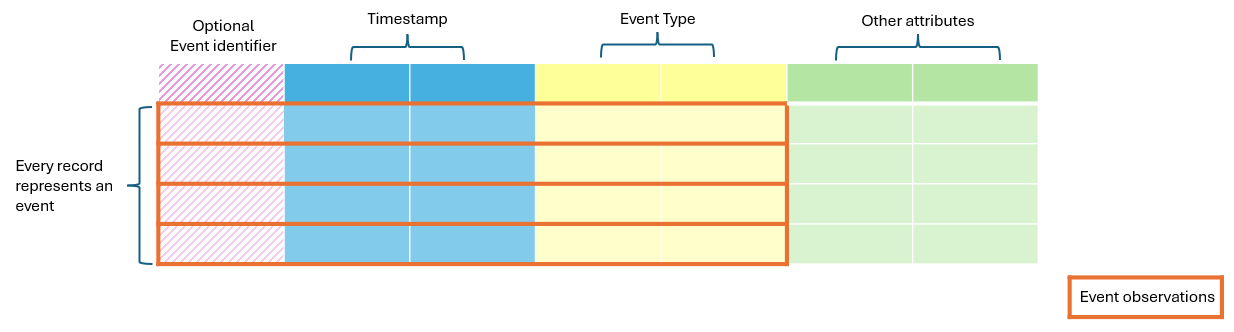
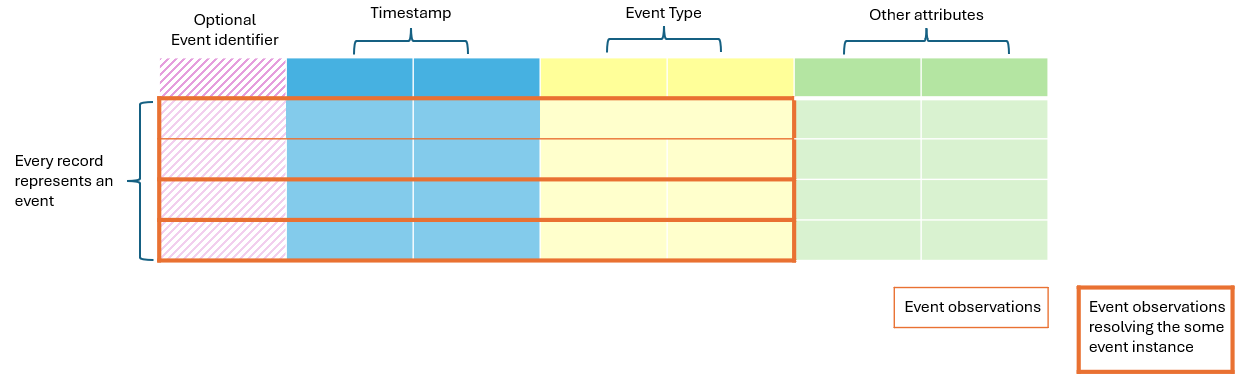
Add page summaries + Journal entry

diff --git a/content/Concepts/Event Observations.md b/content/Concepts/Event Observations.md
@@ -1,0 +1,67 @@
+## Definition 
+
+> An event observation represents a recording of an event (instance) in a particular source. Multiple event observations may refer to the same event instance. 
+## Common sources
+
+Raw records can be interpreted/extracted/discretized into event observations. Below I've added some common sources that contain event observations.
+### Event Logs
+Every record represents an event observation and contains information from which the event type and timestamp can be determined. A record may contain additional attributes that do not necessarily describe the event itself.
+
+
+![[Event Log (Data).png]]
+**Extract**
+- Select the relevant records from the source
+- Identify which columns provide event information
+
+**Interpret**
+- Interpret e.g. `activity` as the event type
+- Interpret e.g. `timestamp` as the event timestamp
+
+**Resolve**
+-  Determine which event observations refer to the same underlying event instance.
+
+### Object data (todo better name)
+Every record represents an object observation. Object observations may contain information about events involving the observed object, such as timestamps representing observations of operations performed on the object.
+
+Example: timestamp representing when the observed object was opened.
+![[Object Data.png|530]]
+
+**Extract**
+- Select the relevant records from the source
+- Identify which columns provide event information
+
+**Interpret**
+- Interpret `Open Time` as an observation of an `ApplicationOpened` event of the observed Application
+- Interpret `Close time` as an observation of an `ApplicationClosed` event of the observed Application
+
+**Resolve**
+-  Determine which event observations refer to the same underlying event instance.
+
+### Sensor Data
+Sensor data describes measurements recorded by sensors. Depending on the format. each record may represent something different. In wide files, each record represents a time point with measurements from multiple sensors. In long files, each records represents a measurement from a single sensor. The sensor variable may be represented in a column, or, when each sensor has its own file, by the file itself.
+
+- Example of a long file where each sensor represents it own file
+	![[Croma Sensor Data.png]]
+
+- Example of a wide file![[NXP Sensor Data.png|700]]
+**Extract**
+- Select sensor data that may contain information about process events
+
+**Discretize**
+- Transform measurements into discrete observations that may represent event
+
+**Interpret**
+- Assign `Event Type` to the discrete observations
+- Interpret e.g. `timestamp` as the event timestamp
+
+**Resolve**
+- Determine which event observations refer to the same underlying event instance.
+
+## Distinction from related concepts
+
+| Concept                                       | Difference                                                                                                                                                           |
+| --------------------------------------------- | -------------------------------------------------------------------------------------------------------------------------------------------------------------------- |
+| [[Concepts/Event Instances\|Event Instances]] | An event instance represents the occurrence, multiple event observations might refer to the same event instance.                                                     |
+| Event Resolution                              | Event resolution is the operation of determining which event observations refer to the same event instance.                                                          |
+| Event observation                             | An event observation represents a (partial) recording of an event instance in a particular source. Multiple event observations may refer to the same event instance. |
+## To-dos

diff --git a/content/Concepts/Process Entities.md b/content/Concepts/Process Entities.md
@@ -1,11 +1,11 @@
 ## Definition 
 
-> A process entity is a distinct element about which process-related information is captured. Process entities can be events, activities or objects, represented either as instances or as types. 
+> A process entity is a distinct element about which process-related information is captured. Process entities can be events or objects, represented either as instances or as types. 
 
-|               | **Event**                                     | **Activity**                                       | **Object**                                      |
-| ------------- | --------------------------------------------- | -------------------------------------------------- | ----------------------------------------------- |
-| **Instances** | [[Concepts/Event Instances\|Event Instances]] | [[Concepts/Activity Instances\|Activity Instance]] | [[Concepts/Object Instances\|Object Instances]] |
-| **Type**      | [[Concepts/Event Type\|Event Type]]           | [[Concepts/Activity Type\|Activity Type]]          | [[Concepts/Object Types\|Object Types]]         |
+|               | **Event**                                     | **Object**                                      |
+| ------------- | --------------------------------------------- | ----------------------------------------------- |
+| **Instances** | [[Concepts/Event Instances\|Event Instances]] | [[Concepts/Object Instances\|Object Instances]] |
+| **Type**      | [[Concepts/Event Type\|Event Type]]           | [[Concepts/Object Types\|Object Types]]         |
 ## Origin
 Process entities can be directly observed in source data or derived from available information and domain knowledge through inference, abstraction, enrichment or other forms of processing.  
 
@@ -16,7 +16,4 @@ The process entity concept provides an umbrella term for representing and reason
 ## What we concluded
 ## Evidence / reasoning
 
-- We distinguish between events and activities to better capture that events are atomic observations, while activities don't have to be; Task instances also fall in the category activity. so I'm not sure whether I like the term activity. The terminology is based on [[Exploration/Process Entities/Process Entities#Taxonomy|Taxonomy]]
-- We also add objects based on previous experience.
 ## Open questions
-- Is activity the right term?

diff --git a/content/Concepts/Event Instances.md b/content/Concepts/Event Instances.md
@@ -14,10 +14,11 @@ Event instances may be observed in source data or inferred from available inform
 | Concept           | Difference                                                                                                                                                           |
 | ----------------- | -------------------------------------------------------------------------------------------------------------------------------------------------------------------- |
 | Event Type        | The type describes a kind of event that may occur. An event instance instantiates an event type by representing a particular occurrence of that type.                |
-| Activity instance | An activity instance represents a phenomenon that extends over a period of time.                                                                                     |
 | Event observation | An event observation represents a (partial) recording of an event instance in a particular source. Multiple event observations may refer to the same event instance. |
 ## To-dos
 - [ ] Work out event types
+- [ ] Work out non-atomic events
+- [ ] Work out activity (executions) and types 
 - [ ] Work out timestamp
 - [ ] Work out attributes
 ## Open questions

diff --git a/content/Journal/2026/2026-10-08.md b/content/Journal/2026/2026-10-08.md
@@ -1,0 +1,34 @@
+---
+journal: Work Daily
+journal-date: 2026-10-08
+---
+
+```journal-notelets
+```
+# Thursday, 8 October 2026 #workday
+
+## 🌤 Afternoon check-in
+
+### What did I do?
+
+- I made a page summary for [[Concepts/Process Entities|Process Entities]], [[Concepts/Event Instances|Event Instances]] and [[Concepts/Event Observations|Event Observations]].
+
+### What is generated and where can it be found?
+
+- Page summaries for [[Concepts/Process Entities|Process Entities]], [[Concepts/Event Instances|Event Instances]] and [[Concepts/Event Observations|Event Observations]].
+
+### Where did I get stuck/faced difficulties?
+
+-  I got stuck thinking about non-atomic events and how to resolve them. I talked to Dirk about it, and it became clear that the terminology is inconsistent and might be confusing. For now, we will stick to non-atomic events and also clearly address activities within the event type discussion.
+
+### What ideas do I have on how to resolve the issue? Which idea will I pursue?
+
+- I talked to Dirk about it.
+
+### What will I do next?
+
+- Make some Conceptual Framework draft drawings.
+
+### What do I need from Dirk and Francesca to move forward?
+
+- Nothing at the moment.
